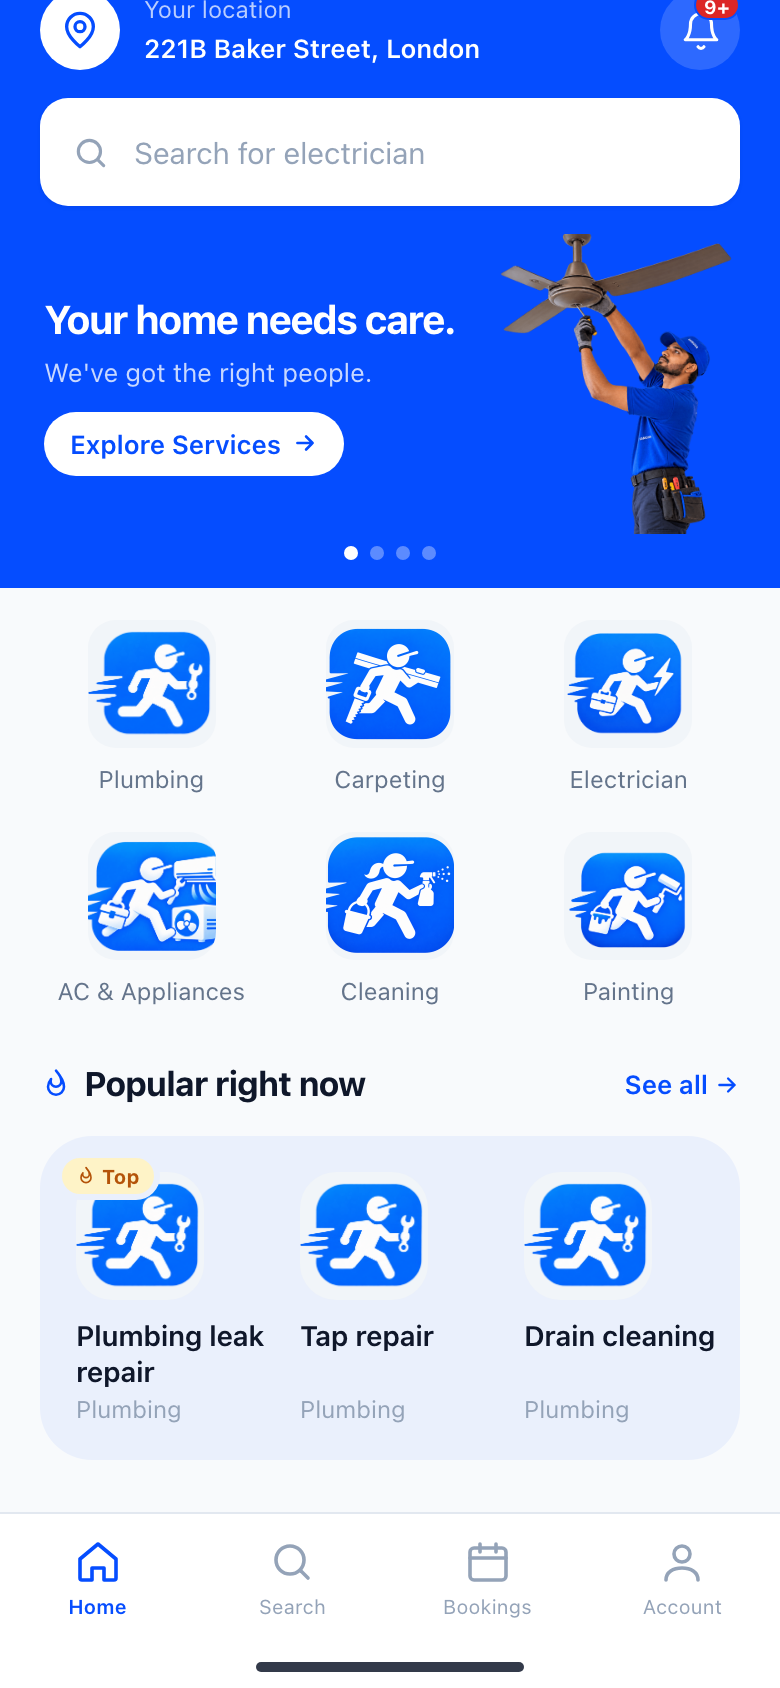
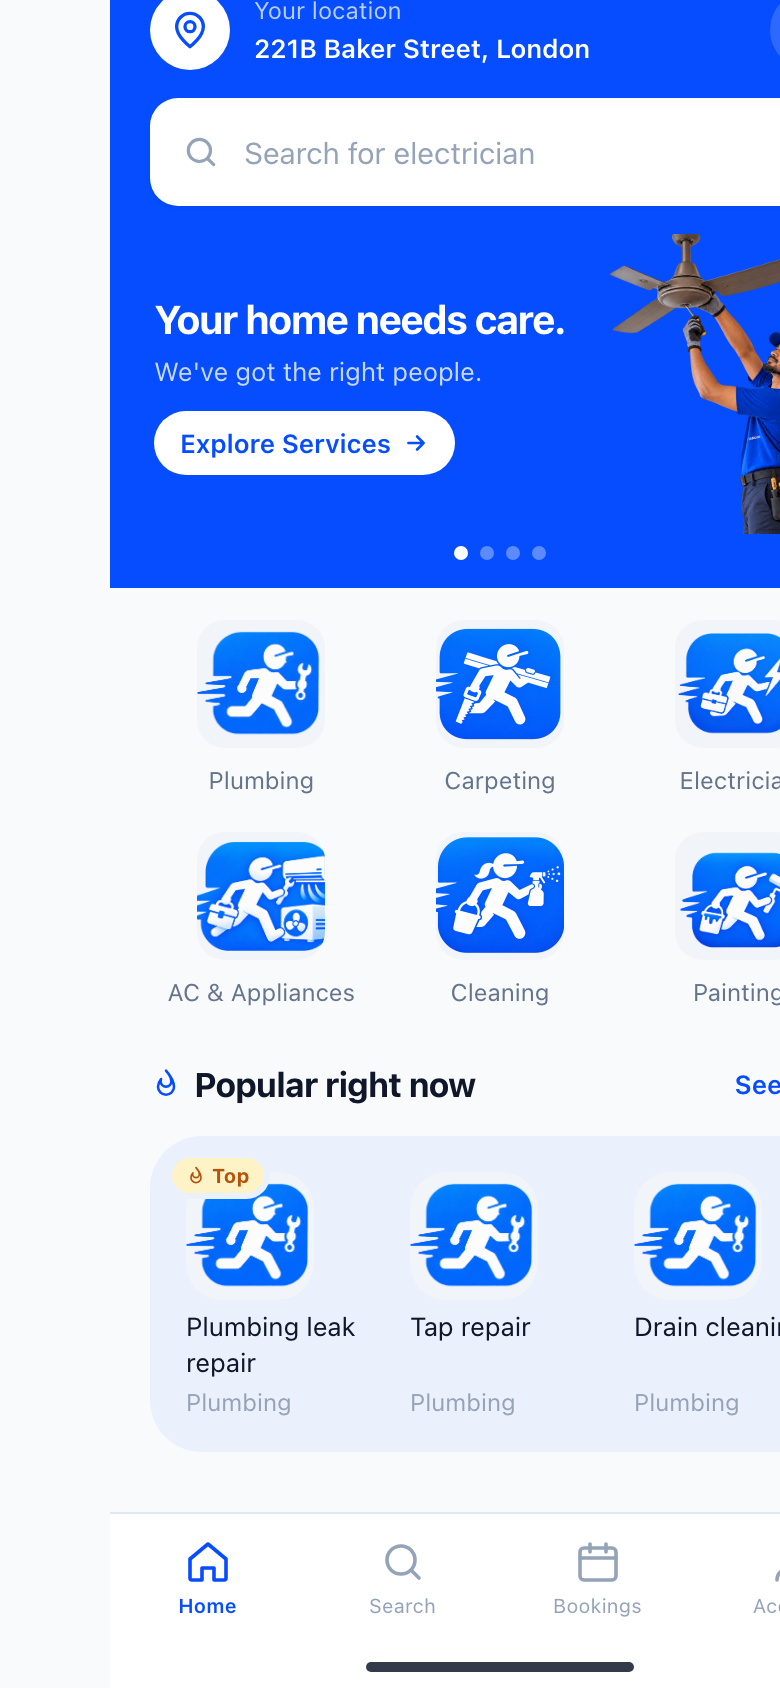
docs(mockups): match the popular-skills rail to the new item typography
The skill name drops its semibold for regular weight in absolute black,
sits 4px under the artwork, and gains a 4px gap down to the service name
— the same polish that landed in the customer app.

diff --git a/docs/mockups/home-popular-skills/preview.html b/docs/mockups/home-popular-skills/preview.html
@@ -117,9 +117,9 @@
   .item{flex:none;width:98px;position:relative}
   .item .img{width:64px;height:64px;border-radius:18px;background:var(--ink-100);
     background-size:cover;background-position:center}
-  .item .name{font-size:14px;font-weight:600;color:var(--ink-900);line-height:18px;margin-top:9px;
-    height:36px;overflow:hidden;letter-spacing:-.005em}
-  .item .meta{font-size:12px;color:var(--ink-400);margin-top:2px;white-space:nowrap;overflow:hidden;text-overflow:ellipsis}
+  .item .name{font-size:13px;font-weight:400;color:#000;line-height:18px;margin-top:4px;
+    height:36px;overflow:hidden}
+  .item .meta{font-size:12px;color:var(--ink-400);margin-top:4px;white-space:nowrap;overflow:hidden;text-overflow:ellipsis}
   .item .flag{position:absolute;top:-7px;left:-7px;box-shadow:0 0 0 3px var(--ink-50),0 1px 2px rgba(15,23,42,.12)}
   .rail-fade{position:absolute;right:0;top:34px;bottom:26px;width:52px;pointer-events:none;
     background:linear-gradient(90deg,rgba(248,250,252,0),var(--ink-50) 78%)}
